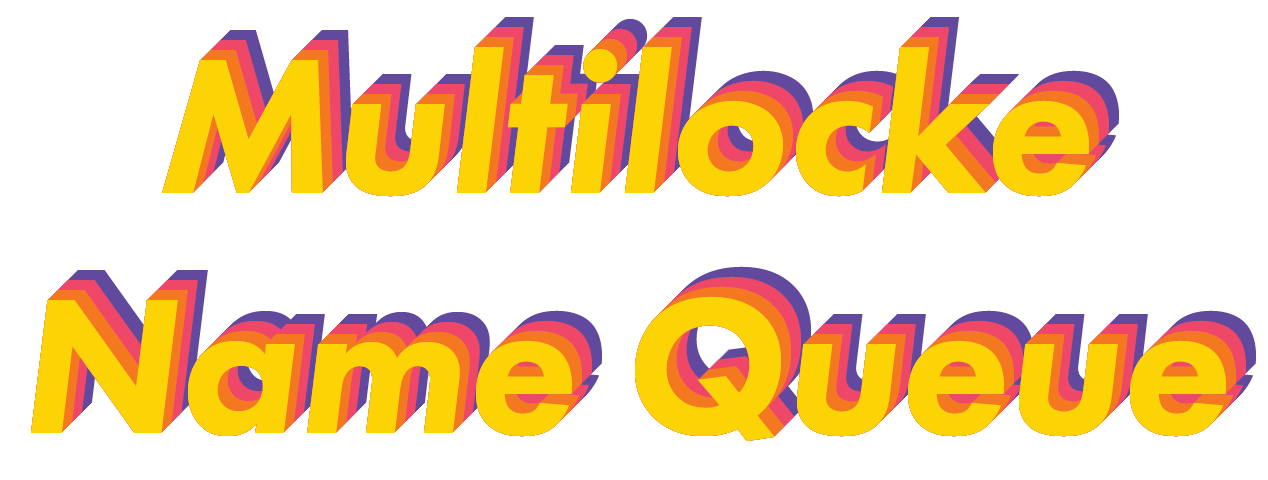
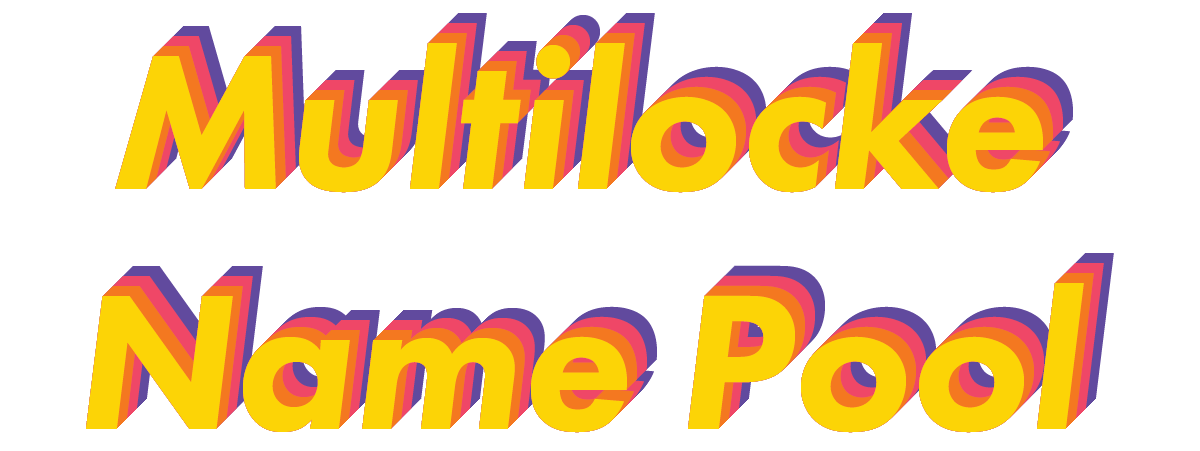
Changed verbaige to "pool" instead of "queue" and modified the /clearqueues endpoint to allow selecting which to clear

diff --git a/viewer-queue-webserver/src/webserver.ts b/viewer-queue-webserver/src/webserver.ts
@@ -2,8 +2,16 @@ import express from "express";
 import http from "http";
 import cors from "cors";
 import { Server } from "socket.io";
-import { notFound, addName, popName, getQueue, authenticate, verifyAuth, removeName } from "./routes/index.js";
-import { clearQueues } from "./utils/names.js";
+import {
+  notFound,
+  addName,
+  popName,
+  getQueue,
+  authenticate,
+  verifyAuth,
+  removeName,
+  clearQueues,
+} from "./routes/index.js";
 
 const app = express();
 const server = http.createServer(app);
@@ -132,13 +140,11 @@ app.get("/verifyauth", (req, res) => {
  * Below section for development purposes only. Remove for production.
  */
 app.delete("/clearqueues", (req, res) => {
-  const key = req.headers?.api_auth;
-  if (key !== process.env.PERMA_AUTH_KEY) {
-    res.status(401).json({ error: "Unauthorized" });
-    return;
-  }
-  clearQueues();
-  res.status(200).json({ message: "queues cleared" });
+  console.log("/clearqueues");
+  console.log(req.method);
+  // console.log(req.headers);
+  console.log(req.body);
+  clearQueues(req, res);
 });
 
 app.get("*", (req, res) => {

diff --git a/viewer-queue-webserver/src/routes/clearQueues.ts b/viewer-queue-webserver/src/routes/clearQueues.ts
@@ -1,0 +1,21 @@
+import dotenv from "dotenv";
+import { Request, Response } from "express";
+import { clearQueues as clear } from "../utils/names.js";
+import AuthKeyManager from "../utils/authKeyManager.js";
+dotenv.config();
+
+export default async function clearQueues(req: Request, res: Response) {
+  const key = req.headers?.api_auth;
+  console.log(key);
+  const verified = typeof key === "string" ? AuthKeyManager.verifyKey(key, req.ip) : { valid: false };
+  console.log(verified);
+  if (!verified.valid) {
+    res.status(401).json({ error: "Unauthorized" });
+    return;
+  }
+  const filterParam = req.query?.filter;
+  let filter: string = filterParam?.toString() ?? "prev";
+  if (filter !== "all" && filter !== "pool" && filter !== "prev") filter = "prev";
+  clear(filter);
+  res.status(200).json({ message: "queues cleared" });
+}

diff --git a/viewer-queue-webserver/src/utils/names.ts b/viewer-queue-webserver/src/utils/names.ts
@@ -126,9 +126,12 @@ export async function reOrderName(name: string, newIdx: number) {
   // TODO: update DB
 }
 
-export async function clearQueues() {
-  queuedNames = [];
-  poppedNames = [];
+export async function clearQueues(filter: string) {
+  const clearPool = filter === "all" || filter === "pool";
+  const clearPopped = filter === "all" || filter === "prev";
+
+  if (clearPool) queuedNames = [];
+  if (clearPopped) poppedNames = [];
   try {
     await docRef.update({ queuedNames });
     await docRef.update({ poppedNames });

diff --git a/viewer-queue-frontend/src/components/QueueComponent.vue b/viewer-queue-frontend/src/components/QueueComponent.vue
@@ -1,6 +1,6 @@
 <template>
   <div class="queuebox">
-    <h2>Queued names</h2>
+    <h2>Pooled names</h2>
     <div class="queue">
       <TransitionGroup name="list" tag="ul">
         <li v-for="item in queue" :key="item" class="list-item">
@@ -12,7 +12,7 @@
         </li>
       </TransitionGroup>
       <Transition name="emptyMsg"
-        ><p v-if="queue.length === 0" class="empty">The queue is empty.</p>
+        ><p v-if="queue.length === 0" class="empty">The pool is empty.</p>
       </Transition>
     </div>
   </div>

diff --git a/viewer-queue-frontend/src/views/QueueView.vue b/viewer-queue-frontend/src/views/QueueView.vue
@@ -6,7 +6,7 @@
     <img
       rel="prefetch"
       class="rudeimg"
-      alt="Multilocke Name Queue"
+      alt="Multilocke Name Pool"
       src="../assets/multilockeheader-transparent.png"
       @load="imageLoaded = true"
     />
@@ -27,7 +27,7 @@
         v-on:keypress.enter="toggleQueue"
         :class="{ btnActive: queuedOrPrev }"
       >
-        <span>Queued</span>
+        <span>Pooled</span>
       </span>
       <span> | </span>
       <span

diff --git a/viewer-queue-frontend/src/router/index.ts b/viewer-queue-frontend/src/router/index.ts
@@ -3,10 +3,9 @@ import { createRouter, createWebHistory, RouteRecordRaw } from "vue-router";
 // import LoginView from "../views/LoginView.vue";
 
 const routes: Array<RouteRecordRaw> = [
-  { path: "/", redirect: "/viewerqueue" },
   {
-    path: "/viewerqueue",
-    name: "Multilocke Queue",
+    path: "/",
+    name: "Multilocke Pool",
     component: () => import("../views/QueueView.vue"),
     // component: QueueView,
   },

diff --git a/viewer-queue-frontend/src/components/NavbarComponent.vue b/viewer-queue-frontend/src/components/NavbarComponent.vue
@@ -1,7 +1,7 @@
 <template>
   <div class="container">
     <nav>
-      <router-link to="/viewerqueue" tabindex="0">Queue</router-link> |
+      <router-link to="/" tabindex="0">Name Pool</router-link> |
       <router-link v-if="!loggedIn" to="/login" tabindex="0">
         Access moderator controls
       </router-link>

diff --git a/viewer-queue-frontend/src/components/LoginComponent.vue b/viewer-queue-frontend/src/components/LoginComponent.vue
@@ -43,7 +43,7 @@ export default defineComponent({
             authKey: response.data.authKey,
             time: response.data.time,
           });
-          this.$router.push("/viewerqueue");
+          this.$router.push("/");
         }
       } catch (error) {
         this.invalidCode = true;

diff --git a/viewer-queue-webserver/src/routes/index.ts b/viewer-queue-webserver/src/routes/index.ts
@@ -7,3 +7,4 @@ export { default as getQueue } from "./queue.js";
 export { default as authenticate } from "./authenticate.js";
 export { default as verifyAuth } from "./verifyauth.js";
 export { default as removeName } from "./remove.js";
+export { default as clearQueues } from "./clearQueues.js";

diff --git a/viewer-queue-frontend/src/views/LoginView.vue b/viewer-queue-frontend/src/views/LoginView.vue
@@ -18,7 +18,7 @@ export default defineComponent({
     // console.log(store.state.loggedIn);
     if (store.state.loggedIn) {
       next(false);
-      router.push("/viewerqueue");
+      router.push("/");
       return false;
     } else {
       next();
